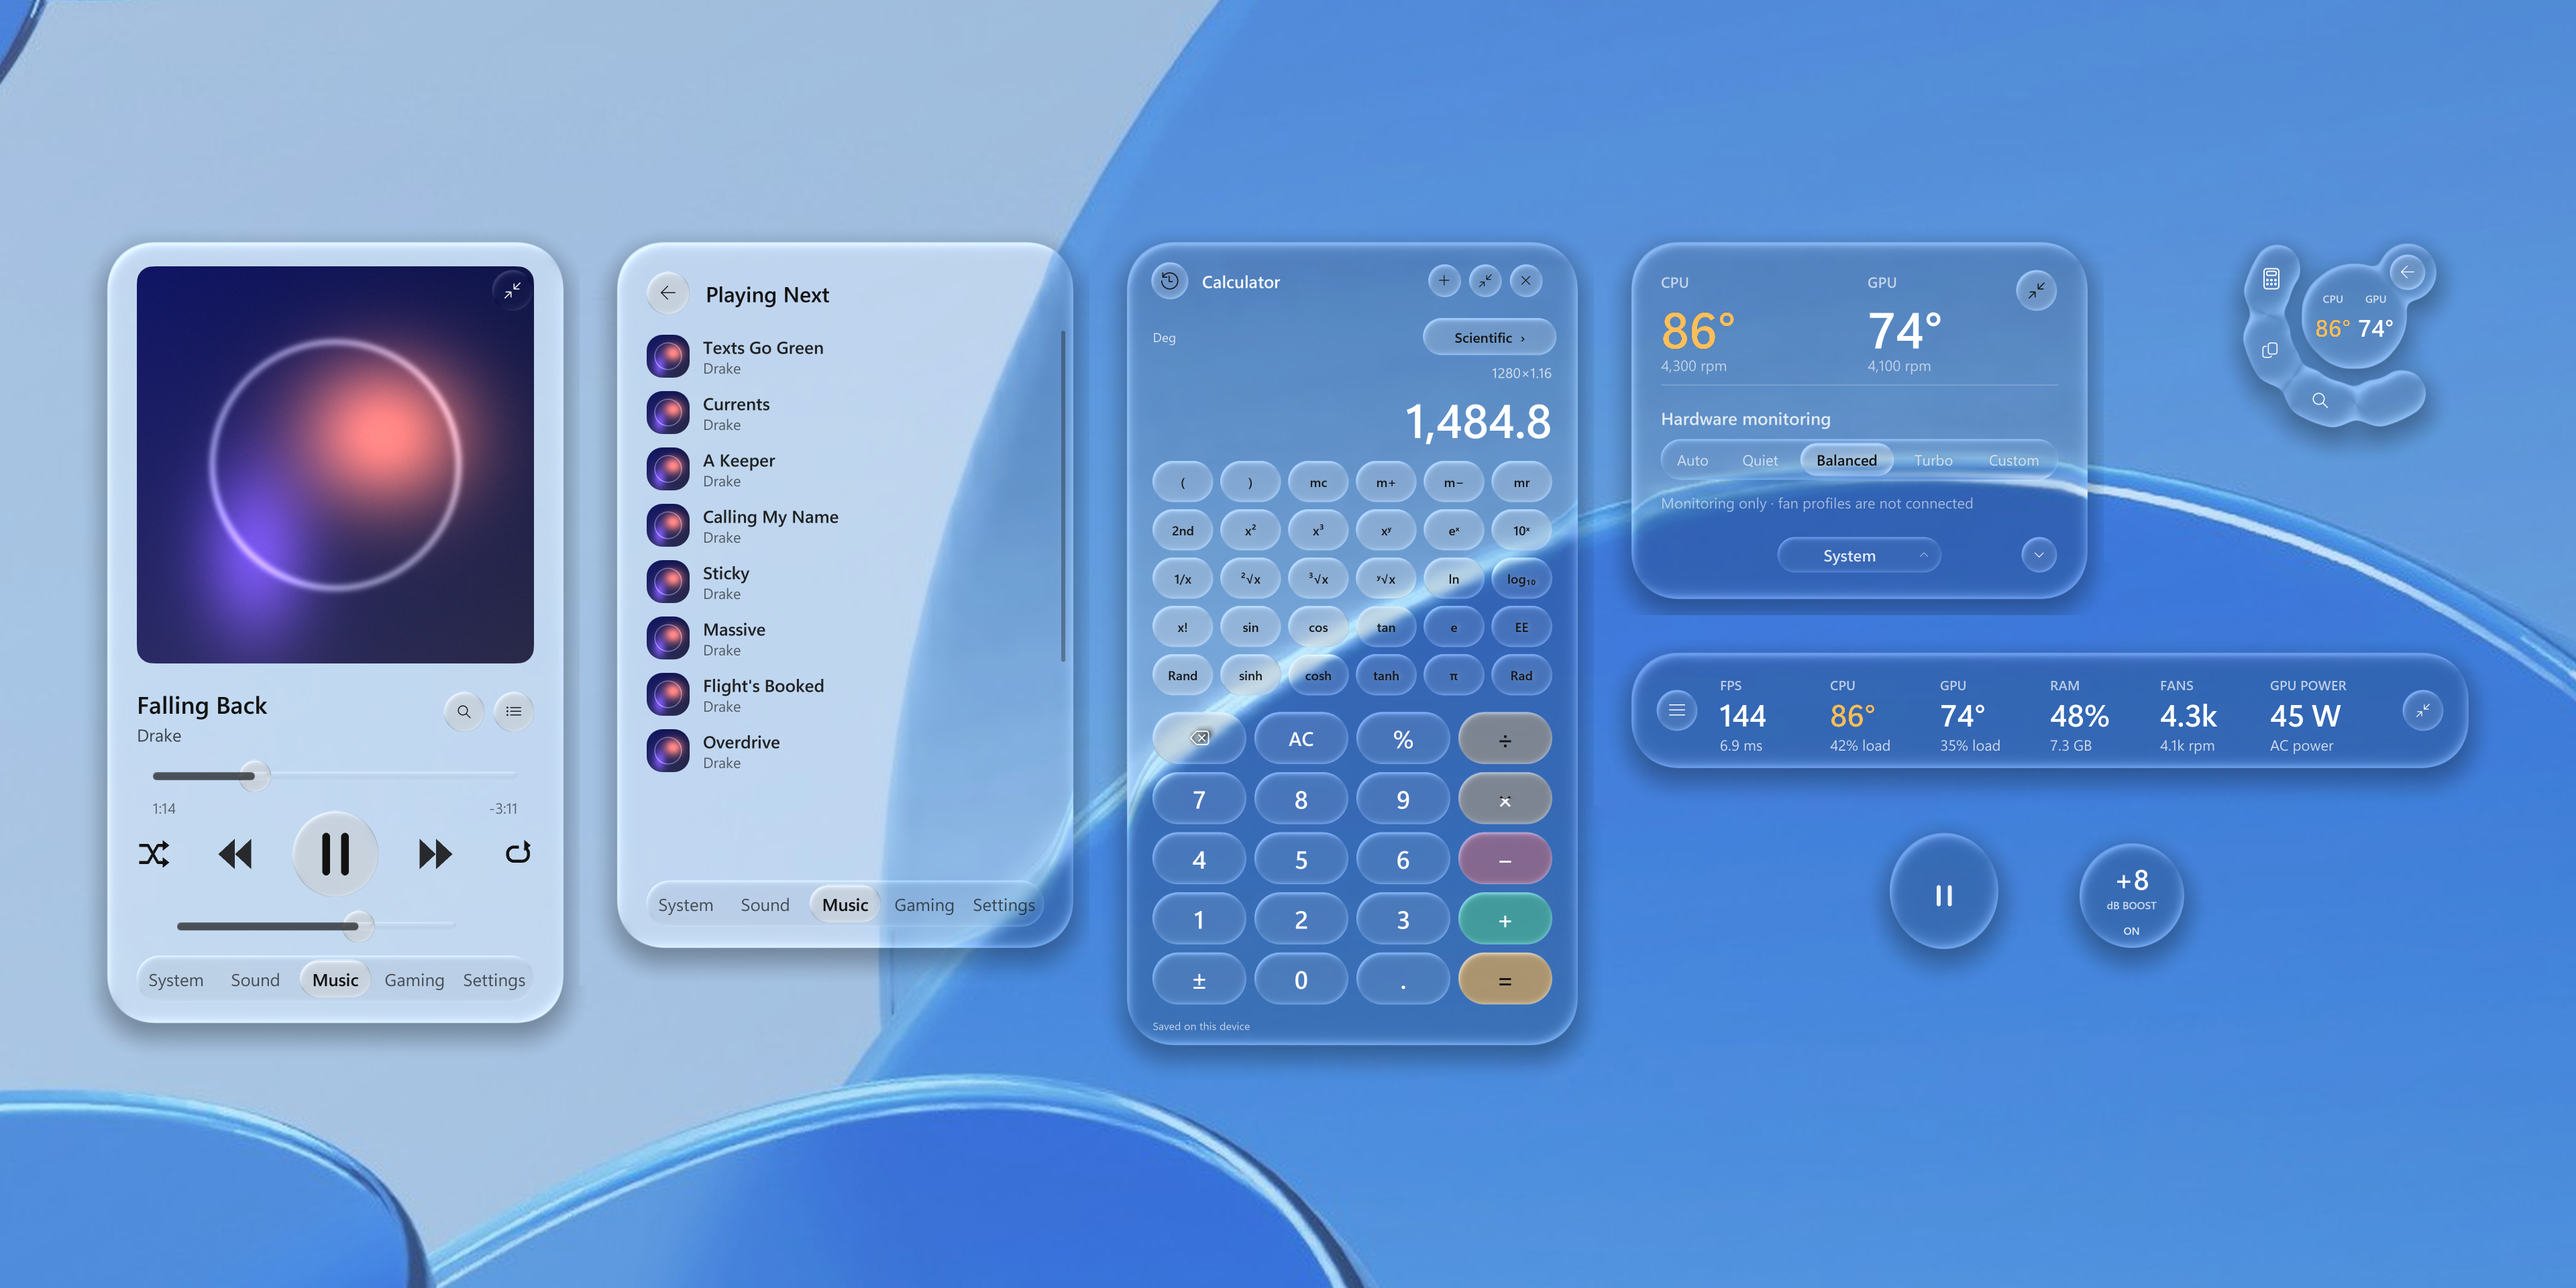
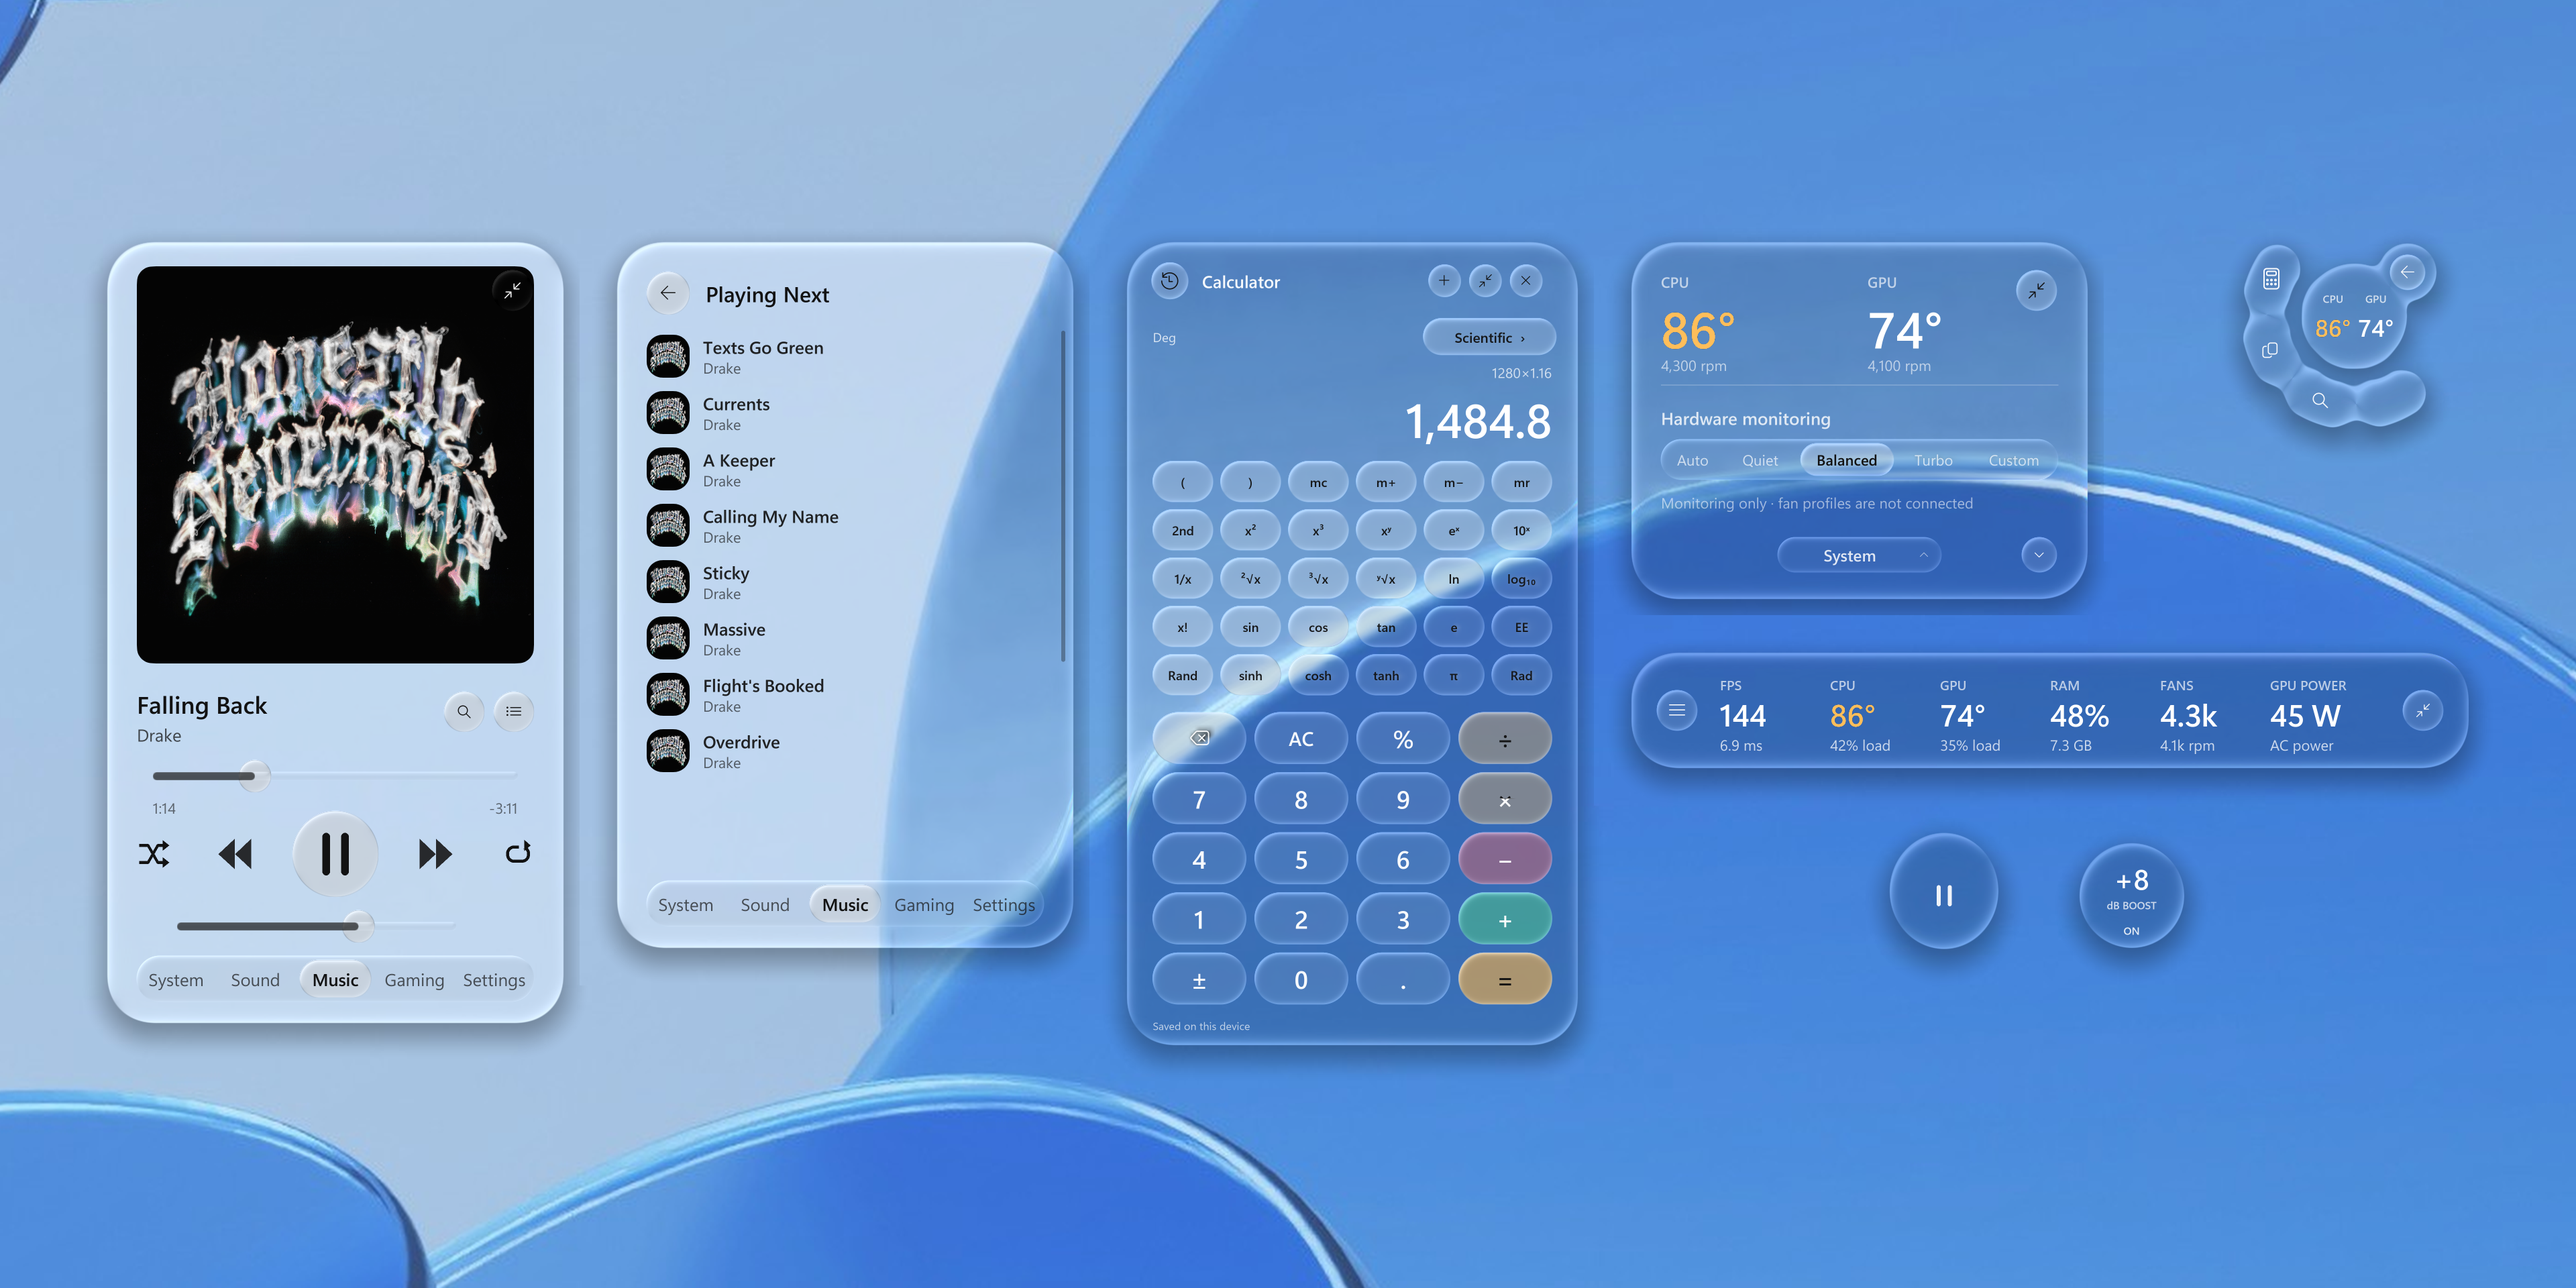
Use the album cover in the screenshots

Changed region(s): [[0.0312, 0.1875, 0.2188, 0.5312], [0.25, 0.25, 0.2812, 0.5938]]

diff --git a/README.md b/README.md
@@ -1,4 +1,4 @@
-<p align="center">
+<p align="center">
   <img src="blob-logo.png" alt="Blob logo" width="120">
 </p>
 
@@ -6,7 +6,7 @@
 
 <p align="center">
   <b>A floating liquid-glass control panel for Windows</b><br>
-  Music controls, PC temperatures, sound enhancement and an in-game FPS counter — in one small, beautiful window.
+  Music controls, PC temperatures, sound enhancement and an in-game FPS counter â€” in one small, beautiful window.
 </p>
 
 <p align="center">
@@ -33,10 +33,10 @@ It takes about 5 minutes. You don't need to know anything about coding.
 
 1. **[Download the installer (Install-Blob.cmd)](https://github.com/GAEONN/Blob/releases/latest/download/Install-Blob.cmd)**
 2. Open your **Downloads** folder and **double-click `Install-Blob.cmd`**.
-   - If Windows says *"Windows protected your PC"*, click **More info → Run anyway**.
+   - If Windows says *"Windows protected your PC"*, click **More info â†’ Run anyway**.
      If your browser asks whether to keep the file, choose **Keep**.
 3. A black window shows the progress. When Windows asks *"Do you want to allow this app to make
-   changes?"*, click **Yes** — this installs the optional sensor, sound and FPS helpers.
+   changes?"*, click **Yes** â€” this installs the optional sensor, sound and FPS helpers.
 
 Blob opens by itself when it's done, and a **Blob v5** icon appears on your desktop.
 **Restart your PC once** afterwards so the sound and FPS features finish setting up.
@@ -56,20 +56,20 @@ irm https://raw.githubusercontent.com/GAEONN/Blob/main/install.ps1 | iex
 
 - **Windows 11** (64-bit)
 - An internet connection during installation
-- That's it — the installer sets up everything else, including Python, automatically.
+- That's it â€” the installer sets up everything else, including Python, automatically.
 
 ## How to use it
 
-| To… | Do this |
+| Toâ€¦ | Do this |
 | --- | --- |
 | Show or hide Blob | Click the **Blob icon** near the clock (bottom-right of the taskbar). You may need to click **^** to see it. |
-| Switch between the small view and the big Dashboard | Press **F10** while Blob is selected, or right-click the Blob icon → **SmallBlob / Dashboard** |
+| Switch between the small view and the big Dashboard | Press **F10** while Blob is selected, or right-click the Blob icon â†’ **SmallBlob / Dashboard** |
 | Move Blob | Drag it anywhere |
 | Let your mouse click *through* Blob (for games) | Press **Ctrl + Alt + V** to lock it; press again to unlock |
-| Start Blob with Windows | Right-click the Blob icon → **Start with Windows** |
-| Close Blob | Right-click the Blob icon → **Exit Blob** |
+| Start Blob with Windows | Right-click the Blob icon â†’ **Start with Windows** |
+| Close Blob | Right-click the Blob icon â†’ **Exit Blob** |
 
-Each view — **System**, **Sound**, **Music** and **Gaming** — can also shrink into a small bubble.
+Each view â€” **System**, **Sound**, **Music** and **Gaming** â€” can also shrink into a small bubble.
 The [feature guide](#feature-guide) below explains every button.
 
 ## Update to the newest version
@@ -79,13 +79,13 @@ It closes Blob, installs the latest version, keeps all your settings, and opens 
 
 ## Uninstall
 
-1. Right-click the Blob icon near the clock → turn off **Start with Windows** → **Exit Blob**.
+1. Right-click the Blob icon near the clock â†’ turn off **Start with Windows** â†’ **Exit Blob**.
 2. Open File Explorer, paste `%LOCALAPPDATA%\Programs` into the address bar, press Enter, and delete
    the **Blob-v5** folder. Do the same for `%LOCALAPPDATA%` and its **Blob-v5** folder (your settings).
 3. Delete the **Blob v5** shortcut from your desktop.
 
 Optional helpers the installer may have added (safe to keep, or remove if you like):
-the **Blob Sensors** task in *Task Scheduler*, **PawnIO** in *Settings → Apps*, and the
+the **Blob Sensors** task in *Task Scheduler*, **PawnIO** in *Settings â†’ Apps*, and the
 **VB-CABLE** audio driver (run its setup from [vb-audio.com/Cable](https://vb-audio.com/Cable/) and choose *Remove*).
 
 ## Common questions
@@ -116,14 +116,14 @@ helper can start. If it's still missing, your PC's hardware doesn't expose that 
 <summary><b>The FPS counter shows nothing.</b></summary>
 
 Sign out of Windows and back in once after installing (or restart). Play in **windowed** or
-**borderless** mode — true fullscreen games can hide overlays.
+**borderless** mode â€” true fullscreen games can hide overlays.
 </details>
 
 <details>
 <summary><b>Sound enhancement doesn't work.</b></summary>
 
 Restart your PC once after installing so the VB-CABLE audio driver finishes setting up, then turn
-Sound on in Blob. If you use FxSound, click **Use Blob audio** in Blob's Sound view — the two can't
+Sound on in Blob. If you use FxSound, click **Use Blob audio** in Blob's Sound view â€” the two can't
 run at the same time.
 </details>
 
@@ -137,7 +137,7 @@ in Blob's Settings.
 <details>
 <summary><b>I found a problem or have an idea.</b></summary>
 
-[Open an issue](https://github.com/GAEONN/Blob/issues/new) and describe what happened — screenshots help a lot.
+[Open an issue](https://github.com/GAEONN/Blob/issues/new) and describe what happened â€” screenshots help a lot.
 </details>
 
 ## Screenshots
@@ -147,14 +147,14 @@ Settings and Tools:
 
 <img src="docs/screenshots/gallery.jpg" alt="Every Blob view, one row per section: System, Sound, Music, Music library, Gaming, Settings and Tools" width="100%">
 
-**Gaming strip** — regular, with the view menu open, and compact:
+**Gaming strip** â€” regular, with the view menu open, and compact:
 
 <img src="docs/screenshots/horizontal-regular.png" alt="Gaming strip" width="680">
 <img src="docs/screenshots/horizontal-menu-open.png" alt="Gaming strip with the view menu open" width="680">
 <img src="docs/screenshots/horizontal-compact.png" alt="Compact gaming strip" width="680">
 
-<sub>Screenshots are Blob's real glass rendered at 2× with sample data: *Honestly, Nevermind* by Drake
-playing, shown with original placeholder cover art. Desktop photo by
+<sub>Screenshots are Blob's real glass rendered at 2Ã— with sample data: *Honestly, Nevermind* by Drake
+playing; album artwork belongs to its owners. Desktop photo by
 [Muriel Liu](https://unsplash.com/@muriel_1) on [Unsplash](https://unsplash.com/photos/vCp7Q2ACSQg).
 Earlier gaming-strip designs are in [docs/screenshots/gaming-layouts](docs/screenshots/gaming-layouts).</sub>
 
@@ -170,7 +170,7 @@ Earlier gaming-strip designs are in [docs/screenshots/gaming-layouts](docs/scree
 | **Gaming** | Always-on-top FPS, frame time, temperatures, utilization, memory, fan, and GPU-power strip |
 | **Settings** | Startup, capture visibility, pointer style, overlay lock shortcut, and per-feature options |
 
-SmallBlob retains Settings → Appearance → Size → Regular / Compact, as well as its System, Sound
+SmallBlob retains Settings â†’ Appearance â†’ Size â†’ Regular / Compact, as well as its System, Sound
 and Music bubbles, square album-art view, and Gaming's matching Horizontal / Vertical strips plus
 the small FPS/frame-time Bubble. Choose the Gaming state in Settings; Bubble returns to the
 last strip orientation through its inset satellite. Dashboard adds the simultaneous overview
@@ -274,7 +274,7 @@ avoid recursive self-capture.
 
 ## For developers
 
-Blob is written in Python with OpenGL and native Win32 APIs — no browser window and no Electron.
+Blob is written in Python with OpenGL and native Win32 APIs â€” no browser window and no Electron.
 SmallBlob and the Dashboard are two views of one app: they share one window, tray icon, audio
 engine, media session, sensor monitor and settings. See [docs/V5-NOTES.md](docs/V5-NOTES.md).
 
@@ -312,7 +312,7 @@ To start an installed checkout manually, use `Launch Blob.cmd`, the desktop shor
 
 - Windows 11
 - A GPU and driver supporting OpenGL 3.3
-- Python 3.10–3.13; the installer can provision Python through WinGet
+- Python 3.10â€“3.13; the installer can provision Python through WinGet
 - Administrator approval only for the optional drivers, sensor provider, and FPS permission setup
 
 ### Development
@@ -352,7 +352,7 @@ Key files:
 | [`applemusic.py`](applemusic.py) | Optional Apple Music search, queue, and playback integration |
 | [`DESIGN.md`](DESIGN.md) | Visual system, shader model, interaction rules, and spring behavior |
 | [`PRODUCT.md`](PRODUCT.md) | Product behavior and feature contract |
-| [`docs/`](docs) | Release notes for v3–v5, screenshots, and the original build brief |
+| [`docs/`](docs) | Release notes for v3â€“v5, screenshots, and the original build brief |
 
 ### Current limitations
 
